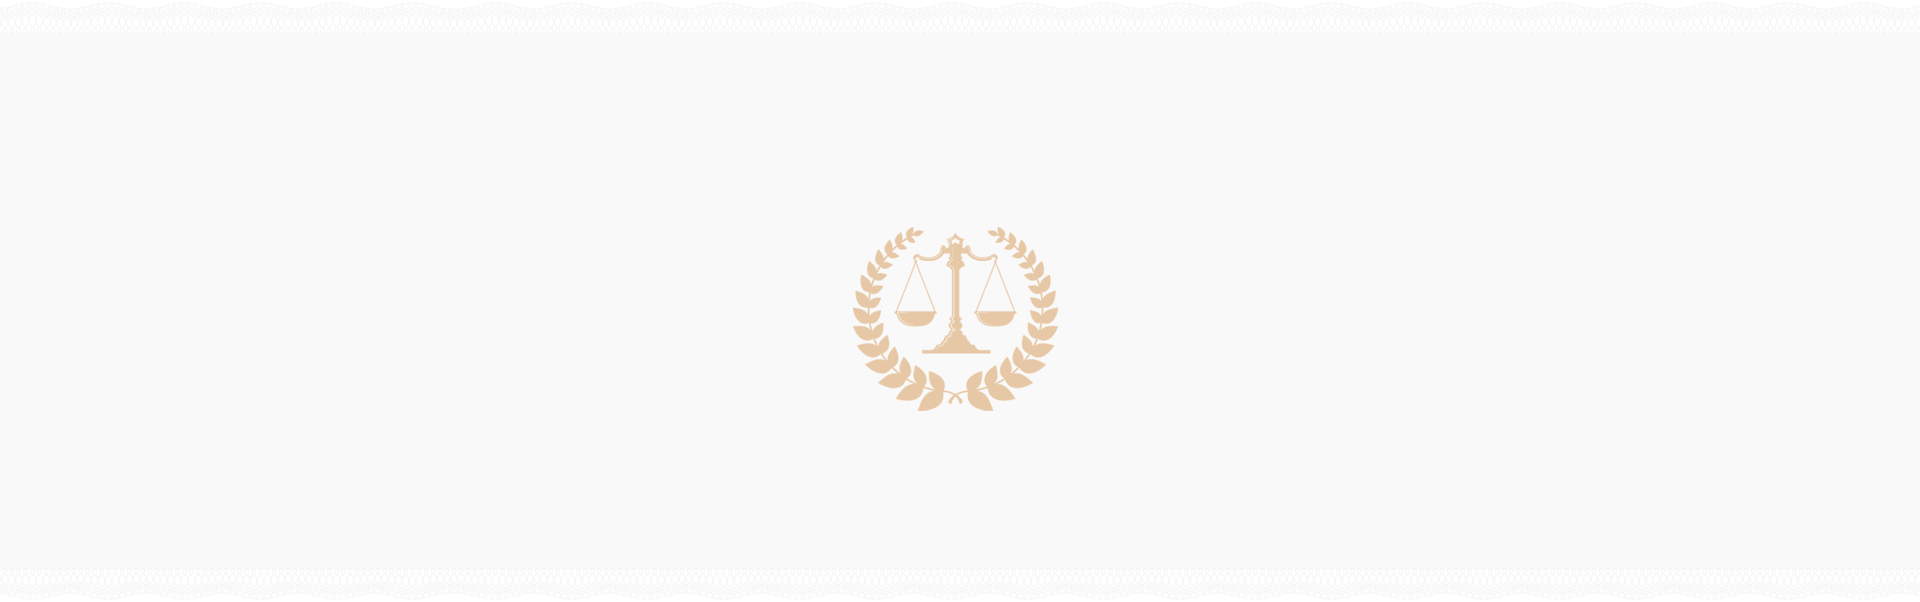
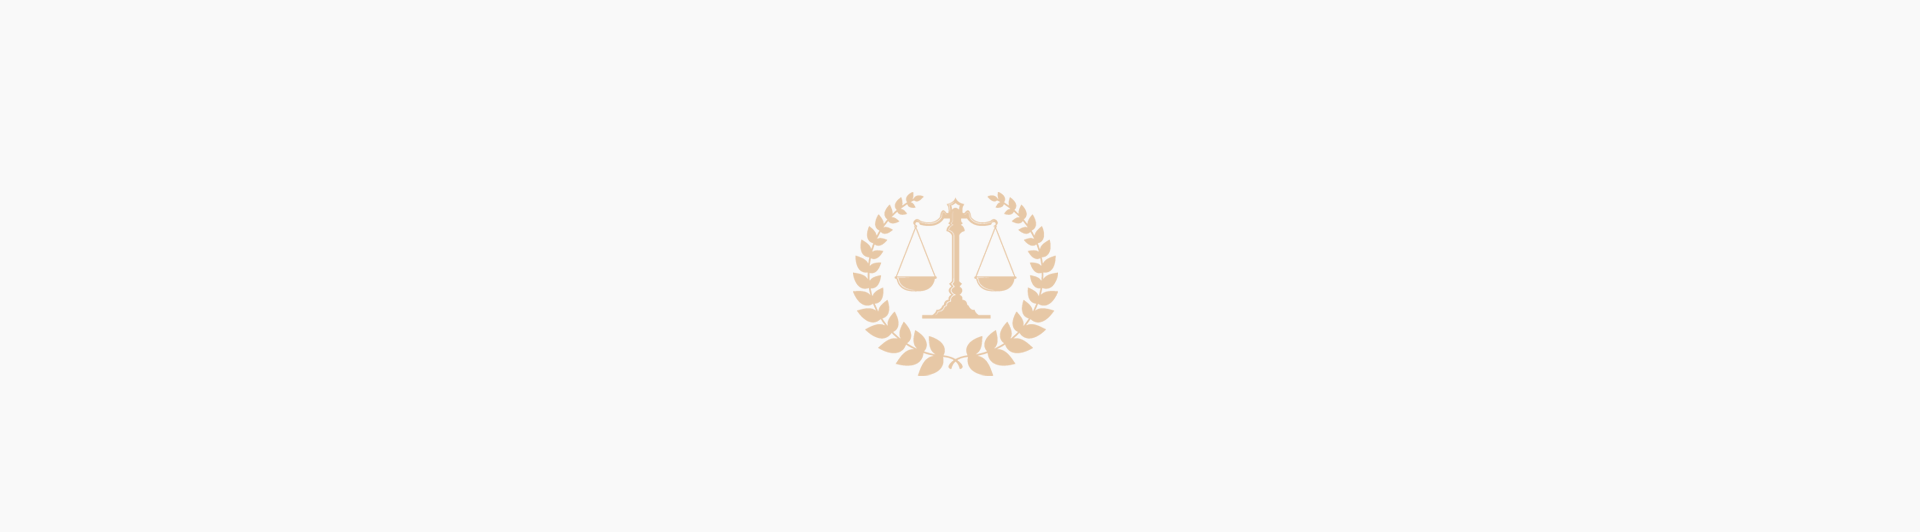
fix form

Changed region(s): [[0.4375, 0.5113, 0.5625, 0.7218], [0.4375, 0.3609, 0.5625, 0.4812]]

diff --git a/css/styles.min.css b/css/styles.min.css
@@ -1,1 +1,1 @@
-@font-face{font-family:Raleway-Bold;src:url(../fonts/Raleway/Raleway-Bold.eot) format("embedded-opentype"),url(../fonts/Raleway/Raleway-Bold.woff2) format("woff2"),url(../fonts/Raleway/Raleway-Bold.woff) format("woff"),url(../fonts/Raleway/Raleway-Bold.ttf) format("truetype"),url(../fonts/Raleway/Raleway-Bold.svg) format("svg");font-weight:400}@font-face{font-family:ProximaNovaRegular;src:url(../fonts/ProximaNova/ProximaNova-Reg.eot) format("embedded-opentype"),url(../fonts/ProximaNova/ProximaNova-Reg.woff) format("woff"),url(../fonts/ProximaNova/ProximaNova-Reg.ttf) format("truetype"),url(../fonts/ProximaNova/ProximaNova-Reg.svg) format("svg");font-weight:400}@font-face{font-family:ProximaNovaBlack;src:url(../fonts/ProximaNova/ProximaNovaBlack.eot) format("embedded-opentype"),url(../fonts/ProximaNova/ProximaNovaBlack.woff2) format("woff2"),url(../fonts/ProximaNova/ProximaNovaBlack.woff) format("woff"),url(../fonts/ProximaNova/ProximaNovaBlack.ttf) format("truetype"),url(../fonts/ProximaNova/ProximaNovaBlack.svg) format("svg");font-weight:400}@font-face{font-family:ProximaNovaBold;src:url(../fonts/ProximaNova/ProximaNovaBold.eot) format("embedded-opentype"),url(../fonts/ProximaNova/ProximaNovaBold.woff2) format("woff2"),url(../fonts/ProximaNova/ProximaNovaBold.woff) format("woff"),url(../fonts/ProximaNova/ProximaNovaBold.ttf) format("truetype"),url(../fonts/ProximaNova/ProximaNovaBold.svg) format("svg");font-weight:400}@font-face{font-family:ProximaNovaLight;src:url(../fonts/ProximaNova/ProximaNovaLight.eot) format("embedded-opentype"),url(../fonts/ProximaNova/ProximaNovaLight.woff2) format("woff2"),url(../fonts/ProximaNova/ProximaNovaLight.woff) format("woff"),url(../fonts/ProximaNova/ProximaNovaLight.ttf) format("truetype"),url(../fonts/ProximaNova/ProximaNovaLight.svg) format("svg");font-weight:400}body,html{width:100%}body{margin:0;padding:0;border:0;text-align:left;vertical-align:baseline;font-family:ProximaNovaRegular}a,a:active,a:focus,a:hover{text-decoration:none}input,input:active,input:focus,input:hover,textarea,textarea:active,textarea:focus,textarea:hover{outline:none}.container{*zoom:1}.container:after{content:"";display:table;line-height:0;clear:both}.container{-webkit-box-sizing:border-box;box-sizing:border-box;padding-right:10px;padding-left:10px;margin-right:auto;margin-left:auto;position:relative}@media (min-width:768px){.container{width:766px}}@media (min-width:992px){.container{width:990px}}@media (min-width:1200px){.container{width:1366px}}.header,.header__navigation{display:block;position:relative;float:left;width:100%}.header__navigation{height:94px;-webkit-box-shadow:0 1px 0 rgba(61,88,132,.34);box-shadow:0 1px 0 rgba(61,88,132,.34);background-color:#fff;z-index:1}.header__navigation__logo{display:block;position:relative;float:left;margin-left:112px}.header__navigation__logo img{width:74px;margin-top:7px;-o-object-fit:cover;object-fit:cover;float:left}.header__navigation__logo span{line-height:89px;font-size:16px;text-transform:uppercase;margin-left:16px}.header__navigation__logo button{width:240px;height:50px;background-color:#28487c;border:0;color:#fff;-webkit-transition:.2s ease;-o-transition:.2s ease;transition:.2s ease;cursor:pointer;margin-left:40px;font-size:16px;font-family:Raleway-Bold;text-transform:uppercase}.header__navigation__logo button:hover{background:#062a65;-webkit-transition:.2s ease;-o-transition:.2s ease;transition:.2s ease}.header__navigation__logo-business-services{color:#28487c;font-size:16px;font-family:Raleway-Bold;text-transform:uppercase;margin-left:30px!important}.header__navigation__phone{margin-left:100px;display:inline-block}.header__navigation__phone img{width:25px;-o-object-fit:cover;object-fit:cover;margin-top:0;padding-right:9px;vertical-align:middle}.header__navigation__phone span{display:inline-block;margin-left:0;margin-top:15px;line-height:inherit;color:#28363f;font-family:ProximaNovaBlack;font-size:24px;text-transform:uppercase}.header__navigation__phone a{font-size:18px;color:#c58663;display:block;text-align:center;border-bottom:1px dashed #c58663;margin-top:15px}.header__content{width:100%;background:url(../img/header-bg.jpg) no-repeat;background-size:cover}.header__content,.header__content__text{display:block;position:relative;float:left}.header__content__text{width:574px;margin-left:219px}.header__content__text p{color:#1d3750;font-family:Raleway-Bold;font-size:40px;line-height:51px}.header__content__form{display:block;position:relative;float:left;width:100%;padding-top:72px;padding-bottom:36px}.header__content__form textarea{margin-left:180px;width:425px;height:180px;float:left;max-height:180px;max-width:425px;background:transparent;border:1px solid hsla(0,0%,100%,.7);color:#fff;padding:11px}.header__content__form textarea::-webkit-input-placeholder{-ms-filter:"progid:DXImageTransform.Microsoft.Alpha(Opacity=100)";opacity:1}.header__content__form textarea::-moz-placeholder{-ms-filter:"progid:DXImageTransform.Microsoft.Alpha(Opacity=100)";opacity:1}.header__content__form textarea:-ms-input-placeholder{-ms-filter:"progid:DXImageTransform.Microsoft.Alpha(Opacity=100)";opacity:1}.header__content__form textarea::placeholder{-ms-filter:"progid:DXImageTransform.Microsoft.Alpha(Opacity=100)";opacity:1}.header__content__form form{display:block;position:relative;float:left}.header__content__form form input{width:280px;padding-left:50px;height:50px;border:1px solid #fff;background-color:hsla(0,0%,100%,.2);display:block;color:#fff;margin-bottom:23px;margin-left:15px;position:relative;-webkit-box-sizing:border-box;box-sizing:border-box}.header__content__form form input::-webkit-input-placeholder{color:#fff;-ms-filter:"progid:DXImageTransform.Microsoft.Alpha(Opacity=100)";opacity:1}.header__content__form form input::-moz-placeholder{color:#fff;-ms-filter:"progid:DXImageTransform.Microsoft.Alpha(Opacity=100)";opacity:1}.header__content__form form input:-ms-input-placeholder{color:#fff;-ms-filter:"progid:DXImageTransform.Microsoft.Alpha(Opacity=100)";opacity:1}.header__content__form form input::placeholder{color:#fff;-ms-filter:"progid:DXImageTransform.Microsoft.Alpha(Opacity=100)";opacity:1}.header__content__form form button{width:280px;height:50px;margin-left:15px;background-color:#ef1e37;color:#fff;border:none;font-family:ProximaNovaRegular;font-size:16px;line-height:24px;text-transform:uppercase;cursor:pointer}.header__content__form__icon-phone{top:90px}.header__content__form__icon,.header__content__form__icon-phone{display:block;position:absolute;color:#fff;height:24px;width:24px;left:30px}.header__content__form__icon{top:13px}.header__content__form__icon img{width:100%;-o-object-fit:cover;object-fit:cover;vertical-align:middle}.header__content__form__woman-absolute{position:absolute;float:right;right:167px;bottom:-5px}.support{display:block;position:relative;float:left;width:100%;-webkit-box-shadow:0 20px 30px rgba(0,0,0,.1);box-shadow:0 20px 30px rgba(0,0,0,.1)}.support h2{font-family:ProximaNovaBlack}.support__title{text-align:center;padding-top:10px}.support__blocks{height:100px;max-width:900px;margin:0 auto;padding:20px 0}@media (max-width:770px){.support__blocks{width:100%}}.support__block{display:inline-block;width:31.3%;height:80px;float:left;padding:0 1%}@media (max-width:770px){.support__block:nth-of-type(3){position:relative;left:25%}}@media (max-width:500px){.support__block:nth-of-type(3){left:0}}@media (max-width:770px){.support__block{width:50%;padding:20px 0}}@media (max-width:500px){.support__block{width:100%;padding:10px 0}}.support__block img{width:80px;height:75px;float:left}.support__block p{font-family:ProximaNovaLight;padding:1%;margin:0;float:left;width:60%}.our-headquarters{display:block;position:relative;float:left;width:100%;background:url(../img/headqurters-bg.png) no-repeat 50%;background-size:cover;min-height:600px}.our-headquarters h2{text-align:center;text-transform:uppercase;margin-top:85px;margin-bottom:30px;font-family:ProximaNovaBold}.our-headquarters h2 span{color:#d59653}.our-headquarters__content{width:890px;margin:0 auto}.our-headquarters__content__text{display:block;position:relative;float:left}.our-headquarters__content__text span{color:#404040;font-family:ProximaNovaRegular;font-size:18px;font-weight:400;line-height:27px;padding-top:30px;width:445px;display:inline-block}.our-headquarters__content__text ul{padding-left:18px}.our-headquarters__content__text ul li{list-style-image:url(../img/icon/hammer.png);font-family:ProximaNovaRegular;font-size:15px;line-height:20px}.our-headquarters__content form{display:block;position:relative;float:right;width:312px;height:394px;border:1px dotted #a7a1a1;background-color:#28487c;margin-top:39px;padding:20px;-ms-filter:"progid:DXImageTransform.Microsoft.Alpha(Opacity=85)";opacity:.85}.our-headquarters__content form .quote{width:100%;height:90px;background-color:hsla(0,0%,100%,.79);margin:0 auto;margin-bottom:10px;position:relative;color:#28487c;font-family:ProximaNovaRegular;font-size:12px;font-weight:400;padding:10px;-webkit-box-sizing:border-box;box-sizing:border-box}.our-headquarters__content form .quote:after{content:"";position:absolute;right:20px;bottom:-20px;border:10px solid transparent;border-top:10px solid #fff;-ms-filter:"progid:DXImageTransform.Microsoft.Alpha(Opacity=80)";opacity:.8}.our-headquarters__content form input{width:100%;height:40px;-ms-filter:"progid:DXImageTransform.Microsoft.Alpha(Opacity=90)";opacity:.9;margin-bottom:10px}.our-headquarters__content form textarea{width:100%;height:100px;min-height:100px;max-height:100px;margin-bottom:6px}.our-headquarters__content form button{height:40px;width:100%;display:block;color:#fff;font-family:ProximaNovaRegular;font-size:16px;font-weight:400;text-transform:uppercase;background:red;border:none}.about_us{width:100%;position:relative;float:left}.about_us ul{width:900px;-webkit-box-sizing:border-box;box-sizing:border-box;margin:80px auto 0;padding:0}.about_us ul:after{content:"";display:block;clear:both;visibility:hidden}.about_us ul li{position:relative;list-style:none;width:48%;float:left;height:250px;margin:20px 1% 0;-webkit-box-sizing:border-box;box-sizing:border-box}.about_us ul li img{position:absolute;left:-25px;top:-15px}.about_us ul li .text{position:absolute;display:block;-webkit-box-sizing:border-box;box-sizing:border-box;width:75%;height:170px;bottom:0;right:0}.find-us{width:100%}.find-us,.find-us__icon{display:block;position:relative;float:left}.find-us__icon{width:64px;height:60px;margin-top:45px;margin-left:-webkit-calc(50% - 32px);margin-left:calc(50% - 32px);overflow:hidden}.find-us__icon img{width:100%;height:100%;-o-object-fit:contain;object-fit:contain}.find-us h2{margin-top:27px;margin-bottom:45px;text-align:center;text-transform:uppercase;color:#262626;font-family:Raleway-Bold;font-size:30px}.find-us__map,.find-us h2{display:block;position:relative;float:left;width:100%}.find-us__map{height:496px;overflow:hidden}.find-us__map #find-us-map{display:block;width:100%;height:100%;padding:0;margin:0;border:none;z-index:1}.footer{display:block;background-color:#28487c}.footer,.footer__nav{position:relative;float:left;width:100%}.footer__nav{display:-webkit-flex;display:-webkit-box;display:-ms-flexbox;display:flex;-webkit-flex-wrap:wrap;-ms-flex-wrap:wrap;flex-wrap:wrap;-webkit-flex-direction:row;-webkit-box-orient:horizontal;-webkit-box-direction:normal;-ms-flex-direction:row;flex-direction:row;-webkit-box-pack:center;-webkit-justify-content:center;-ms-flex-pack:center;justify-content:center;padding-left:0;margin:0;list-style:none}.footer__nav li,.footer__nav li a{position:relative;float:left}.footer__nav li a{display:block;width:100%;padding:34px 30px;-webkit-box-sizing:border-box;box-sizing:border-box;color:#fff;font-family:ProximaNovaBold;font-size:16px;text-transform:uppercase;border-bottom:2px solid transparent}.footer__nav li a:hover{border-bottom:2px solid #fff}.footer__separator{height:1px;background-color:hsla(0,0%,100%,.3)}.footer__links,.footer__separator{display:block;position:relative;float:left;width:100%}.footer__links--agreement{text-decoration:underline}.footer__links--agreement,.footer__links--art{position:relative;float:left;margin-top:29px;margin-bottom:25px;color:#fff;font-family:ProximaNovaLight;font-size:13px}.footer__links--art{display:block;margin-left:24%}.footer__socials{display:block;position:relative;float:right}.footer__socials>p{margin-top:29px;margin-bottom:25px;margin-right:14px;color:#fff;font-family:ProximaNovaLight;font-size:13px}.footer__socials>p,.footer__socials a{display:block;position:relative;float:left}.footer__socials a{width:32px;height:32px;margin-top:21px;margin-left:6px;margin-right:6px;border-radius:16px;border:1px solid hsla(0,0%,100%,.3);text-align:center;font-size:12px}.footer__socials a .fa{color:#fff}.footer__socials a .fa,.footer__socials a svg{position:relative;top:50%;-webkit-transform:translateY(-50%);-ms-transform:translateY(-50%);transform:translateY(-50%)}.footer__socials a svg{display:block;float:left;width:12px;height:11px;margin-left:-webkit-calc(50% - 6px);margin-left:calc(50% - 6px)}.footer__socials a svg path{fill:#fff}.footer__socials a span{display:block;float:left;width:12px;height:11px;margin-left:-webkit-calc(50% - 6px);margin-left:calc(50% - 6px);position:relative;top:50%;-webkit-transform:translateY(-50%);-ms-transform:translateY(-50%);transform:translateY(-50%)}.footer__socials a:hover{background-color:#fff;border:1px solid transparent}.footer__socials a:hover .fa{color:#0072ca}.footer__socials a:hover svg path{fill:#0072ca}
+@font-face{font-family:Raleway-Bold;src:url(../fonts/Raleway/Raleway-Bold.eot) format("embedded-opentype"),url(../fonts/Raleway/Raleway-Bold.woff2) format("woff2"),url(../fonts/Raleway/Raleway-Bold.woff) format("woff"),url(../fonts/Raleway/Raleway-Bold.ttf) format("truetype"),url(../fonts/Raleway/Raleway-Bold.svg) format("svg");font-weight:400}@font-face{font-family:ProximaNovaRegular;src:url(../fonts/ProximaNova/ProximaNova-Reg.eot) format("embedded-opentype"),url(../fonts/ProximaNova/ProximaNova-Reg.woff) format("woff"),url(../fonts/ProximaNova/ProximaNova-Reg.ttf) format("truetype"),url(../fonts/ProximaNova/ProximaNova-Reg.svg) format("svg");font-weight:400}@font-face{font-family:ProximaNovaBlack;src:url(../fonts/ProximaNova/ProximaNovaBlack.eot) format("embedded-opentype"),url(../fonts/ProximaNova/ProximaNovaBlack.woff2) format("woff2"),url(../fonts/ProximaNova/ProximaNovaBlack.woff) format("woff"),url(../fonts/ProximaNova/ProximaNovaBlack.ttf) format("truetype"),url(../fonts/ProximaNova/ProximaNovaBlack.svg) format("svg");font-weight:400}@font-face{font-family:ProximaNovaBold;src:url(../fonts/ProximaNova/ProximaNovaBold.eot) format("embedded-opentype"),url(../fonts/ProximaNova/ProximaNovaBold.woff2) format("woff2"),url(../fonts/ProximaNova/ProximaNovaBold.woff) format("woff"),url(../fonts/ProximaNova/ProximaNovaBold.ttf) format("truetype"),url(../fonts/ProximaNova/ProximaNovaBold.svg) format("svg");font-weight:400}@font-face{font-family:ProximaNovaLight;src:url(../fonts/ProximaNova/ProximaNovaLight.eot) format("embedded-opentype"),url(../fonts/ProximaNova/ProximaNovaLight.woff2) format("woff2"),url(../fonts/ProximaNova/ProximaNovaLight.woff) format("woff"),url(../fonts/ProximaNova/ProximaNovaLight.ttf) format("truetype"),url(../fonts/ProximaNova/ProximaNovaLight.svg) format("svg");font-weight:400}body,html{width:100%}body{margin:0;padding:0;border:0;text-align:left;vertical-align:baseline;font-family:ProximaNovaRegular}a,a:active,a:focus,a:hover{text-decoration:none}input,input:active,input:focus,input:hover,textarea,textarea:active,textarea:focus,textarea:hover{outline:none}.container{*zoom:1}.container:after{content:"";display:table;line-height:0;clear:both}.container{-webkit-box-sizing:border-box;box-sizing:border-box;padding-right:10px;padding-left:10px;margin-right:auto;margin-left:auto;position:relative}@media (min-width:768px){.container{width:766px}}@media (min-width:992px){.container{width:990px}}@media (min-width:1200px){.container{width:1366px}}.header,.header__navigation{display:block;position:relative;float:left;width:100%}.header__navigation{height:94px;-webkit-box-shadow:0 1px 0 rgba(61,88,132,.34);box-shadow:0 1px 0 rgba(61,88,132,.34);background-color:#fff;z-index:1}.header__navigation__logo{display:block;position:relative;float:left;margin-left:112px}.header__navigation__logo img{width:74px;margin-top:7px;-o-object-fit:cover;object-fit:cover;float:left}.header__navigation__logo span{line-height:89px;font-size:16px;text-transform:uppercase;margin-left:16px}.header__navigation__logo button{width:240px;height:50px;background-color:#28487c;border:0;color:#fff;-webkit-transition:.2s ease;-o-transition:.2s ease;transition:.2s ease;cursor:pointer;margin-left:40px;font-size:16px;font-family:Raleway-Bold;text-transform:uppercase}.header__navigation__logo button:hover{background:#062a65;-webkit-transition:.2s ease;-o-transition:.2s ease;transition:.2s ease}.header__navigation__logo-business-services{color:#28487c;font-size:16px;font-family:Raleway-Bold;text-transform:uppercase;margin-left:30px!important}.header__navigation__phone{margin-left:100px;display:inline-block}.header__navigation__phone img{width:25px;-o-object-fit:cover;object-fit:cover;margin-top:0;padding-right:9px;vertical-align:middle}.header__navigation__phone span{display:inline-block;margin-left:0;margin-top:15px;line-height:inherit;color:#28363f;font-family:ProximaNovaBlack;font-size:24px;text-transform:uppercase}.header__navigation__phone a{font-size:18px;color:#c58663;display:block;text-align:center;border-bottom:1px dashed #c58663;margin-top:15px}.header__content{width:100%;background:url(../img/header-bg.jpg) no-repeat;background-size:cover}.header__content,.header__content__text{display:block;position:relative;float:left}.header__content__text{width:574px;margin-left:219px}.header__content__text p{color:#1d3750;font-family:Raleway-Bold;font-size:40px;line-height:51px}.header__content__form{display:block;position:relative;float:left;width:100%;padding-top:72px;padding-bottom:36px}.header__content__form textarea{margin-left:180px;width:425px;height:180px;float:left;max-height:180px;max-width:425px;background:transparent;border:1px solid hsla(0,0%,100%,.7);color:#fff;padding:11px}.header__content__form textarea::-webkit-input-placeholder{-ms-filter:"progid:DXImageTransform.Microsoft.Alpha(Opacity=100)";opacity:1}.header__content__form textarea::-moz-placeholder{-ms-filter:"progid:DXImageTransform.Microsoft.Alpha(Opacity=100)";opacity:1}.header__content__form textarea:-ms-input-placeholder{-ms-filter:"progid:DXImageTransform.Microsoft.Alpha(Opacity=100)";opacity:1}.header__content__form textarea::placeholder{-ms-filter:"progid:DXImageTransform.Microsoft.Alpha(Opacity=100)";opacity:1}.header__content__form form{display:block;position:relative;float:left}.header__content__form form input{width:280px;padding-left:50px;height:50px;border:1px solid #fff;background-color:hsla(0,0%,100%,.2);display:block;color:#fff;margin-bottom:23px;margin-left:15px;position:relative;-webkit-box-sizing:border-box;box-sizing:border-box}.header__content__form form input::-webkit-input-placeholder{color:#fff;-ms-filter:"progid:DXImageTransform.Microsoft.Alpha(Opacity=100)";opacity:1}.header__content__form form input::-moz-placeholder{color:#fff;-ms-filter:"progid:DXImageTransform.Microsoft.Alpha(Opacity=100)";opacity:1}.header__content__form form input:-ms-input-placeholder{color:#fff;-ms-filter:"progid:DXImageTransform.Microsoft.Alpha(Opacity=100)";opacity:1}.header__content__form form input::placeholder{color:#fff;-ms-filter:"progid:DXImageTransform.Microsoft.Alpha(Opacity=100)";opacity:1}.header__content__form form button{width:280px;height:50px;margin-left:15px;background-color:#ef1e37;color:#fff;border:none;font-family:ProximaNovaRegular;font-size:16px;line-height:24px;text-transform:uppercase;cursor:pointer}.header__content__form__icon-phone{top:90px}.header__content__form__icon,.header__content__form__icon-phone{display:block;position:absolute;color:#fff;height:24px;width:24px;left:30px}.header__content__form__icon{top:13px}.header__content__form__icon img{width:100%;-o-object-fit:cover;object-fit:cover;vertical-align:middle}.header__content__form__woman-absolute{position:absolute;float:right;right:167px;bottom:-5px}.support{display:block;position:relative;float:left;width:100%;-webkit-box-shadow:0 20px 30px rgba(0,0,0,.1);box-shadow:0 20px 30px rgba(0,0,0,.1)}.support h2{font-family:ProximaNovaBlack}.support__title{text-align:center;padding-top:10px}.support__blocks{height:100px;max-width:900px;margin:0 auto;padding:20px 0}@media (max-width:770px){.support__blocks{width:100%}}.support__block{display:inline-block;width:31.3%;height:80px;float:left;padding:0 1%}@media (max-width:770px){.support__block:nth-of-type(3){position:relative;left:25%}}@media (max-width:500px){.support__block:nth-of-type(3){left:0}}@media (max-width:770px){.support__block{width:50%;padding:20px 0}}@media (max-width:500px){.support__block{width:100%;padding:10px 0}}.support__block img{width:80px;height:75px;float:left}.support__block p{font-family:ProximaNovaLight;padding:1%;margin:0;float:left;width:60%}.our-headquarters{display:block;position:relative;float:left;width:100%;background:url(../img/headqurters-bg.png) no-repeat 0 #f9f9f9;background-size:contain;padding-bottom:35px}.our-headquarters:after{background:url(../img/headquarters-top.png) no-repeat;background-size:cover;top:-34px}.our-headquarters:after,.our-headquarters:before{content:"";position:absolute;width:100%;height:35px}.our-headquarters:before{background:url(../img/headquarters-bottom.png) no-repeat;background-size:cover;bottom:-34px}.our-headquarters h2{text-align:center;text-transform:uppercase;margin-top:50px;margin-bottom:30px;font-family:ProximaNovaBold}.our-headquarters h2 span{color:#d59653}.our-headquarters__content{width:890px;margin:0 auto}.our-headquarters__content__text{display:block;position:relative;float:left}.our-headquarters__content__text span{color:#404040;font-family:ProximaNovaRegular;font-size:18px;font-weight:400;line-height:27px;padding-top:30px;width:445px;display:inline-block}.our-headquarters__content__text ul{padding-left:18px}.our-headquarters__content__text ul li{list-style-image:url(../img/icon/hammer.png);font-family:ProximaNovaRegular;font-size:15px;line-height:20px}.our-headquarters__content form{display:block;position:relative;float:right;width:312px;height:394px;border:1px dotted #a7a1a1;background-color:#28487c;margin-top:39px;padding:20px;-ms-filter:"progid:DXImageTransform.Microsoft.Alpha(Opacity=85)";opacity:.85}.our-headquarters__content form .quote{width:100%;height:90px;background-color:hsla(0,0%,100%,.79);margin:0 auto;margin-bottom:10px;position:relative;color:#28487c;font-family:ProximaNovaRegular;font-size:12px;font-weight:400;padding:10px;-webkit-box-sizing:border-box;box-sizing:border-box}.our-headquarters__content form .quote:after{content:"";position:absolute;right:20px;bottom:-20px;border:10px solid transparent;border-top:10px solid #fff;-ms-filter:"progid:DXImageTransform.Microsoft.Alpha(Opacity=80)";opacity:.8}.our-headquarters__content form input{width:100%;height:40px;-ms-filter:"progid:DXImageTransform.Microsoft.Alpha(Opacity=90)";opacity:.9;margin-bottom:10px}.our-headquarters__content form textarea{width:100%;height:100px;min-height:100px;max-height:100px;margin-bottom:6px}.our-headquarters__content form button{height:40px;width:100%;display:block;color:#fff;font-family:ProximaNovaRegular;font-size:16px;font-weight:400;text-transform:uppercase;background:red;border:none}.about_us{width:100%;position:relative;float:left}.about_us ul{width:900px;-webkit-box-sizing:border-box;box-sizing:border-box;margin:80px auto 0;padding:0 0 50px}.about_us ul:after{content:"";display:block;clear:both;visibility:hidden}.about_us ul li{position:relative;list-style:none;width:48%;float:left;height:250px;margin:20px 1% 0;-webkit-box-sizing:border-box;box-sizing:border-box}.about_us ul li img{position:absolute;left:-25px;top:-15px}.about_us ul li .text{position:absolute;display:block;-webkit-box-sizing:border-box;box-sizing:border-box;width:75%;height:170px;bottom:0;right:0}.find-us{width:100%}.find-us,.find-us__icon{display:block;position:relative;float:left}.find-us__icon{width:64px;height:60px;margin-top:45px;margin-left:-webkit-calc(50% - 32px);margin-left:calc(50% - 32px);overflow:hidden}.find-us__icon img{width:100%;height:100%;-o-object-fit:contain;object-fit:contain}.find-us h2{margin-top:27px;margin-bottom:45px;text-align:center;text-transform:uppercase;color:#262626;font-family:Raleway-Bold;font-size:30px}.find-us__map,.find-us h2{display:block;position:relative;float:left;width:100%}.find-us__map{height:496px;overflow:hidden}.find-us__map #find-us-map{display:block;width:100%;height:100%;padding:0;margin:0;border:none;z-index:1}.footer{display:block;background-color:#28487c}.footer,.footer__nav{position:relative;float:left;width:100%}.footer__nav{display:-webkit-flex;display:-webkit-box;display:-ms-flexbox;display:flex;-webkit-flex-wrap:wrap;-ms-flex-wrap:wrap;flex-wrap:wrap;-webkit-flex-direction:row;-webkit-box-orient:horizontal;-webkit-box-direction:normal;-ms-flex-direction:row;flex-direction:row;-webkit-box-pack:center;-webkit-justify-content:center;-ms-flex-pack:center;justify-content:center;padding-left:0;margin:0;list-style:none}.footer__nav li,.footer__nav li a{position:relative;float:left}.footer__nav li a{display:block;width:100%;padding:34px 30px;-webkit-box-sizing:border-box;box-sizing:border-box;color:#fff;font-family:ProximaNovaBold;font-size:16px;text-transform:uppercase;border-bottom:2px solid transparent}.footer__nav li a:hover{border-bottom:2px solid #fff}.footer__separator{height:1px;background-color:hsla(0,0%,100%,.3)}.footer__links,.footer__separator{display:block;position:relative;float:left;width:100%}.footer__links--agreement{text-decoration:underline}.footer__links--agreement,.footer__links--art{position:relative;float:left;margin-top:29px;margin-bottom:25px;color:#fff;font-family:ProximaNovaLight;font-size:13px}.footer__links--art{display:block;margin-left:24%}.footer__socials{display:block;position:relative;float:right}.footer__socials>p{margin-top:29px;margin-bottom:25px;margin-right:14px;color:#fff;font-family:ProximaNovaLight;font-size:13px}.footer__socials>p,.footer__socials a{display:block;position:relative;float:left}.footer__socials a{width:32px;height:32px;margin-top:21px;margin-left:6px;margin-right:6px;border-radius:16px;border:1px solid hsla(0,0%,100%,.3);text-align:center;font-size:12px}.footer__socials a .fa{color:#fff}.footer__socials a .fa,.footer__socials a svg{position:relative;top:50%;-webkit-transform:translateY(-50%);-ms-transform:translateY(-50%);transform:translateY(-50%)}.footer__socials a svg{display:block;float:left;width:12px;height:11px;margin-left:-webkit-calc(50% - 6px);margin-left:calc(50% - 6px)}.footer__socials a svg path{fill:#fff}.footer__socials a span{display:block;float:left;width:12px;height:11px;margin-left:-webkit-calc(50% - 6px);margin-left:calc(50% - 6px);position:relative;top:50%;-webkit-transform:translateY(-50%);-ms-transform:translateY(-50%);transform:translateY(-50%)}.footer__socials a:hover{background-color:#fff;border:1px solid transparent}.footer__socials a:hover .fa{color:#0072ca}.footer__socials a:hover svg path{fill:#0072ca}

diff --git a/app/sass/content/_our-headquarters.scss b/app/sass/content/_our-headquarters.scss
@@ -3,13 +3,31 @@
   position: relative;
   float: left;
   width: 100%;
-  background: url("../img/headqurters-bg.png") no-repeat center center;
-  background-size: cover;
-  min-height: 600px;
+  background: url("../img/headqurters-bg.png") no-repeat left center #f9f9f9;
+  background-size: contain;
+  padding-bottom: 35px;
+  &:after{
+    content: '';
+    position: absolute;
+    background: url("../img/headquarters-top.png") no-repeat;
+    background-size: cover;
+    top: -34px;
+    width: 100%;
+    height: 35px;
+  }
+  &:before{
+    content: '';
+    position: absolute;
+    background: url("../img/headquarters-bottom.png") no-repeat;
+    background-size: cover;
+    bottom: -34px;
+    width: 100%;
+    height: 35px;
+  }
   h2{
     text-align: center;
     text-transform: uppercase;
-    margin-top: 85px;
+    margin-top: 50px;
     margin-bottom: 30px;
     font-family: $proximaBold;
     span{

diff --git a/app/sass/content/_about-us.scss b/app/sass/content/_about-us.scss
@@ -4,9 +4,10 @@
   float: left;
   ul {
     width: 900px;
+
     box-sizing: border-box;
     margin: 80px auto 0 auto;
-    padding: 0;
+    padding: 0 0 50px 0;
     &:after {
       content: "";
       display: block;
